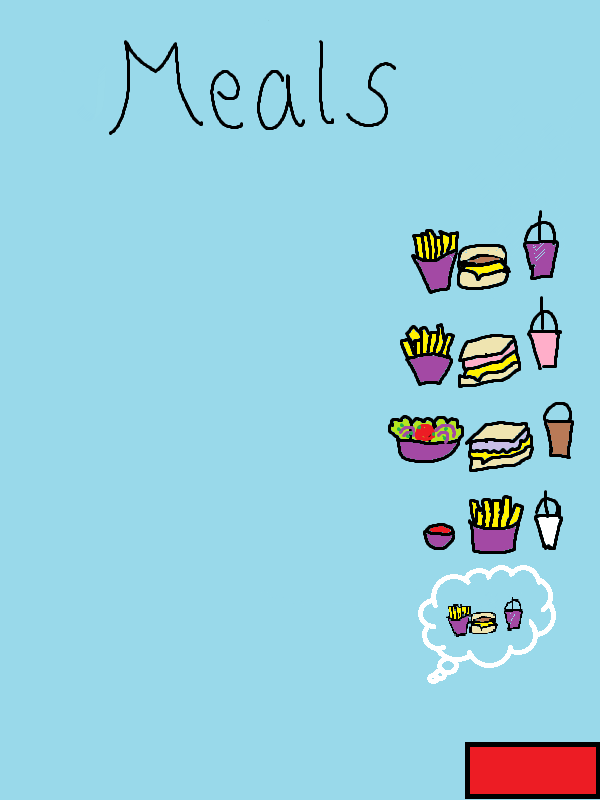
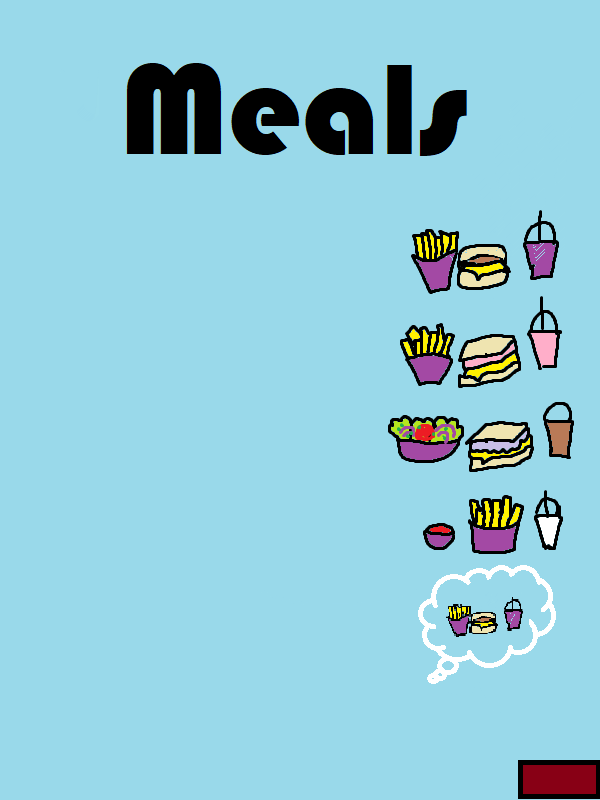
Zmiana grafik i tesktu, dodanie ostrzeżenia o ilosci produktów w kreatorach oraz dodtanie informacji że aby zapłaicć musi być chodź jedna rzecz w koszyku

Changed region(s): [[0.18, 0.0625, 0.78, 0.2188], [0.75, 0.9062, 1.0, 1.0]]

diff --git a/SFML/Bill.cpp b/SFML/Bill.cpp
@@ -10,18 +10,19 @@ classBill::classBill(float width, float height, Order &anOrder)
 
 	enter[0].setFont(font);
 	enter[0].setFillColor(Color::Red);
-	enter[0].setString("Pay");
-	enter[0].setPosition(240.f, 750.f);
+	enter[0].setString("PAY");
+	enter[0].setPosition(375.f, 761.f);
 
 	enter[1].setFont(font);
 	enter[1].setFillColor(Color::Black);
-	enter[1].setString("usun");
-	enter[1].setPosition(340.f, 750.f);
+	enter[1].setString("REMOVE");
+	enter[1].setCharacterSize(20);
+	enter[1].setPosition(443.f, 767.f);
 
 	enter[2].setFont(font);
 	enter[2].setFillColor(Color::Black);
-	enter[2].setString("Exit");
-	enter[2].setPosition(500.f, 750.f);
+	enter[2].setString("EXIT");
+	enter[2].setPosition(525.f, 761.f);
 
 	for (int i = 3; i < 11; i++)
 	{
@@ -35,7 +36,7 @@ classBill::classBill(float width, float height, Order &anOrder)
 	enter[11].setFont(font);
 	enter[11].setFillColor(Color::Black);
 	enter[11].setString("Total: "+orderSum);
-	enter[11].setPosition(350.f, 600.f);
+	enter[11].setPosition(350.f, 700.f);
 
 	selectedItemIndex = 0;
 }
@@ -54,7 +55,7 @@ void classBill::MoveLeft()
 {
 	if (selectedItemIndex - 1 >= 0)
 	{
-		enter[selectedItemIndex].setFillColor(Color::White);
+		enter[selectedItemIndex].setFillColor(Color::Black);
 		selectedItemIndex--;
 		enter[selectedItemIndex].setFillColor(Color::Red);
 	}
@@ -63,7 +64,7 @@ void classBill::MoveRight()
 {
 	if (selectedItemIndex + 1 < 3)
 	{
-		enter[selectedItemIndex].setFillColor(Color::White);
+		enter[selectedItemIndex].setFillColor(Color::Black);
 		selectedItemIndex++;
 		enter[selectedItemIndex].setFillColor(Color::Red);
 	}

diff --git a/SFML/Menu.cpp b/SFML/Menu.cpp
@@ -11,27 +11,27 @@ Menu::Menu(float width, float height)
 
 	menu[0].setFont(font);
 	menu[0].setFillColor(Color::Red);
-	menu[0].setPosition(64.f,245.f);
+	menu[0].setPosition(60.f,245.f);
 
 	menu[1].setFont(font);
 	menu[1].setFillColor(Color::Black);
-	menu[1].setPosition(64.f, 340.f);
+	menu[1].setPosition(60.f, 340.f);
 
 	menu[2].setFont(font);
 	menu[2].setFillColor(Color::Black);
-	menu[2].setPosition(64.f, 423.f);
+	menu[2].setPosition(60.f, 423.f);
 
 	menu[3].setFont(font);
 	menu[3].setFillColor(Color::Black);
-	menu[3].setPosition(64.f, 510.f);
+	menu[3].setPosition(60.f, 510.f);
 
 	menu[4].setFont(font);
 	menu[4].setFillColor(Color::Black);
-	menu[4].setPosition(64.f, 595.f);
+	menu[4].setPosition(60.f, 595.f);
 
 	menu[5].setFont(font);
 	menu[5].setFillColor(Color::Black);
-	menu[5].setPosition(530.f,762.f);
+	menu[5].setPosition(525.f, 761.f);
 
 
 
@@ -41,7 +41,7 @@ Menu::Menu(float width, float height)
 Menu::~Menu()
 {};
 
-void Menu::nazwa(string naz, int k)
+void Menu::name(string naz, int k)
 {
 	menu[k].setString(naz);
 

diff --git a/SFML/shakesOption.cpp b/SFML/shakesOption.cpp
@@ -17,12 +17,12 @@ void shakeOption(Order& anOrder)
 {
     RenderWindow windowShakes(VideoMode(600, 800), "Shakes");// -||- dla shakes
     Menu menuShakes(windowShakes.getSize().x, windowShakes.getSize().y);//obiekt dla shakes
-    menuShakes.nazwa("Strawberry", 0);//przypisanie nazw dla menu shakes
-    menuShakes.nazwa("Vanilla", 1);
-    menuShakes.nazwa("Chocolate", 2);
-    menuShakes.nazwa("Caramel", 3);
-    menuShakes.nazwa("Blueberry", 4);
-    menuShakes.nazwa("Exit", 5);
+    menuShakes.name("Strawberry", 0);//przypisanie nazw dla menu shakes
+    menuShakes.name("Vanilla", 1);
+    menuShakes.name("Chocolate", 2);
+    menuShakes.name("Caramel", 3);
+    menuShakes.name("Blueberry", 4);
+    menuShakes.name("EXIT", 5);
     RectangleShape backShakes;//tlo dla shakes
     backShakes.setSize(Vector2f(600, 800));
     Texture imageBackShakes;

diff --git a/SFML/sidesOption.cpp b/SFML/sidesOption.cpp
@@ -16,12 +16,12 @@ void sidesOption(Order &anOrder)
 
     RenderWindow windowSides(VideoMode(600, 800), "Sides");// -||- dla Sides
     Menu menuSides(windowSides.getSize().x, windowSides.getSize().y);//obiekt dla sides
-    menuSides.nazwa("Chips", 0);//przypisanie nazw dla menu sides
-    menuSides.nazwa("Salad", 1);
-    menuSides.nazwa("Ketchup", 2);
-    menuSides.nazwa("KentuckyGold dip", 3);
-    menuSides.nazwa("Garlic dip", 4);
-    menuSides.nazwa("Exit", 5);
+    menuSides.name("Chips", 0);//przypisanie nazw dla menu sides
+    menuSides.name("Salad", 1);
+    menuSides.name("Ketchup", 2);
+    menuSides.name("KentuckyGold dip", 3);
+    menuSides.name("Garlic dip", 4);
+    menuSides.name("EXIT", 5);
     RectangleShape backSides;//tlo dla sides
     backSides.setSize(Vector2f(600, 800));
     Texture imageBackSides;

diff --git a/SFML/Ordernumerclass.cpp b/SFML/Ordernumerclass.cpp
@@ -9,7 +9,7 @@ Ordernumerclass::Ordernumerclass(float width, float height)
 	enter[0].setFont(font);
 	enter[0].setFillColor(Color::Black);
 	enter[0].setString("EXIT");
-	enter[0].setPosition(505.f, 752.f);
+	enter[0].setPosition(525.f, 761.f);
 
 	selectedItemIndex = 0;
 }

diff --git a/SFML/DeletingOrder.cpp b/SFML/DeletingOrder.cpp
@@ -52,7 +52,7 @@ DeletingOrder::DeletingOrder(float width, float height)
 	menu[8].setFont(font);
 	menu[8].setFillColor(Color::Black);
 	menu[8].setString("EXIT");
-	menu[8].setPosition(526.f, 763.f);
+	menu[8].setPosition(525.f, 761.f);
 	selectedItemIndex = 0;
 }
 

diff --git a/SFML/Enter.cpp b/SFML/Enter.cpp
@@ -18,7 +18,7 @@ Enter::Enter(float width, float height)
 	enter[1].setFont(font);
 	enter[1].setFillColor(Color::Black);
 	enter[1].setString("EXIT");
-	enter[1].setPosition(526.f, 763.f);
+	enter[1].setPosition(525.f, 761.f);
 
 	selectedItemIndex = 0;
 }

diff --git a/SFML/Menu.h b/SFML/Menu.h
@@ -24,7 +24,7 @@ public:
 
 
 	void draw(RenderWindow& window);
-	void nazwa(string nazwa, int k);
+	void name(string nazwa, int k);
 	void MoveUp();
 	void MoveDown();
 	int GetPressedItem() { return selectedItemIndex; }
